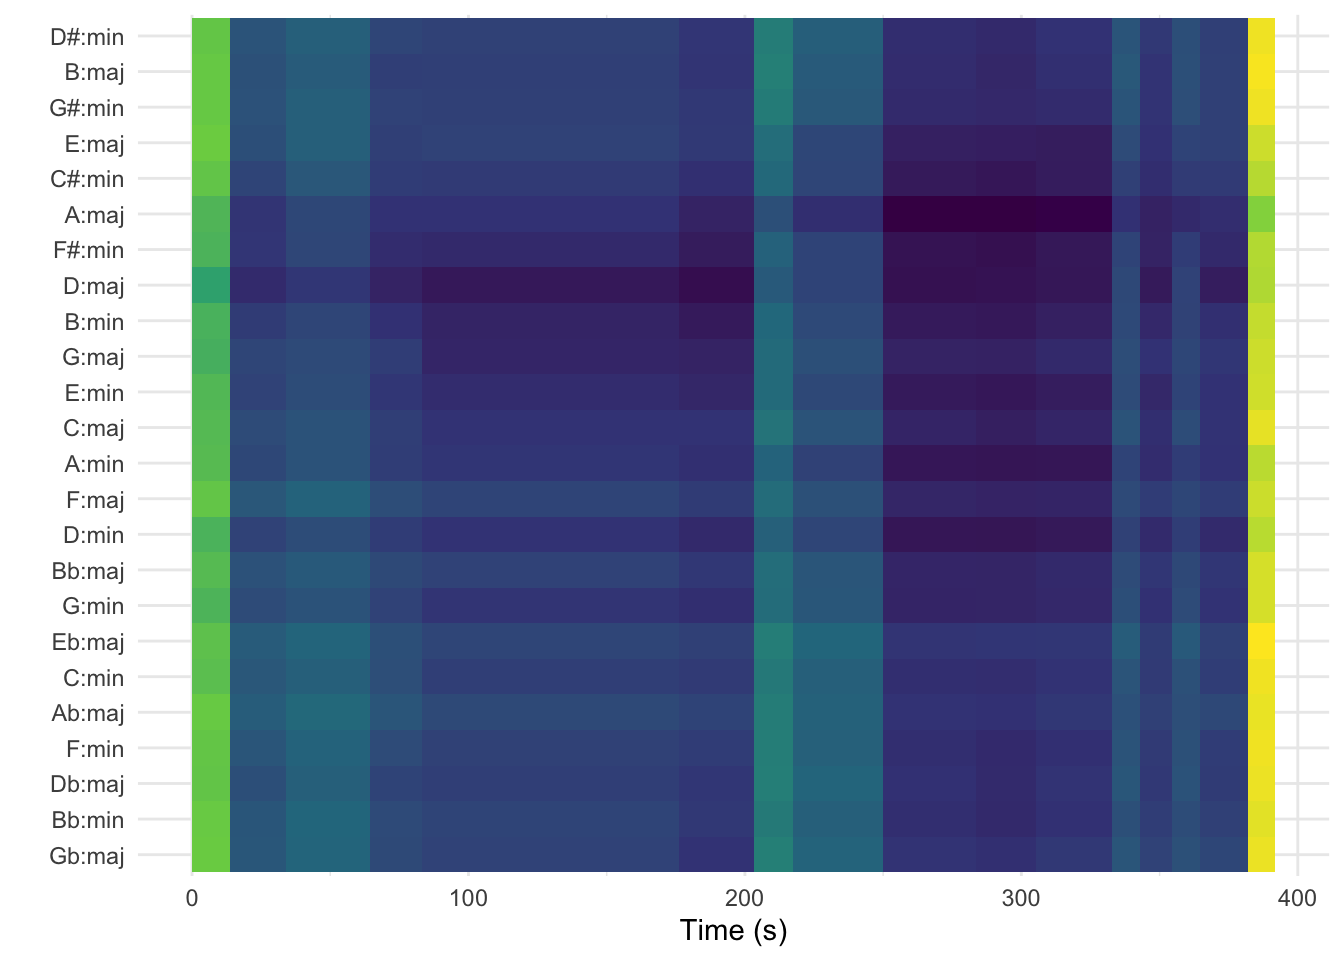
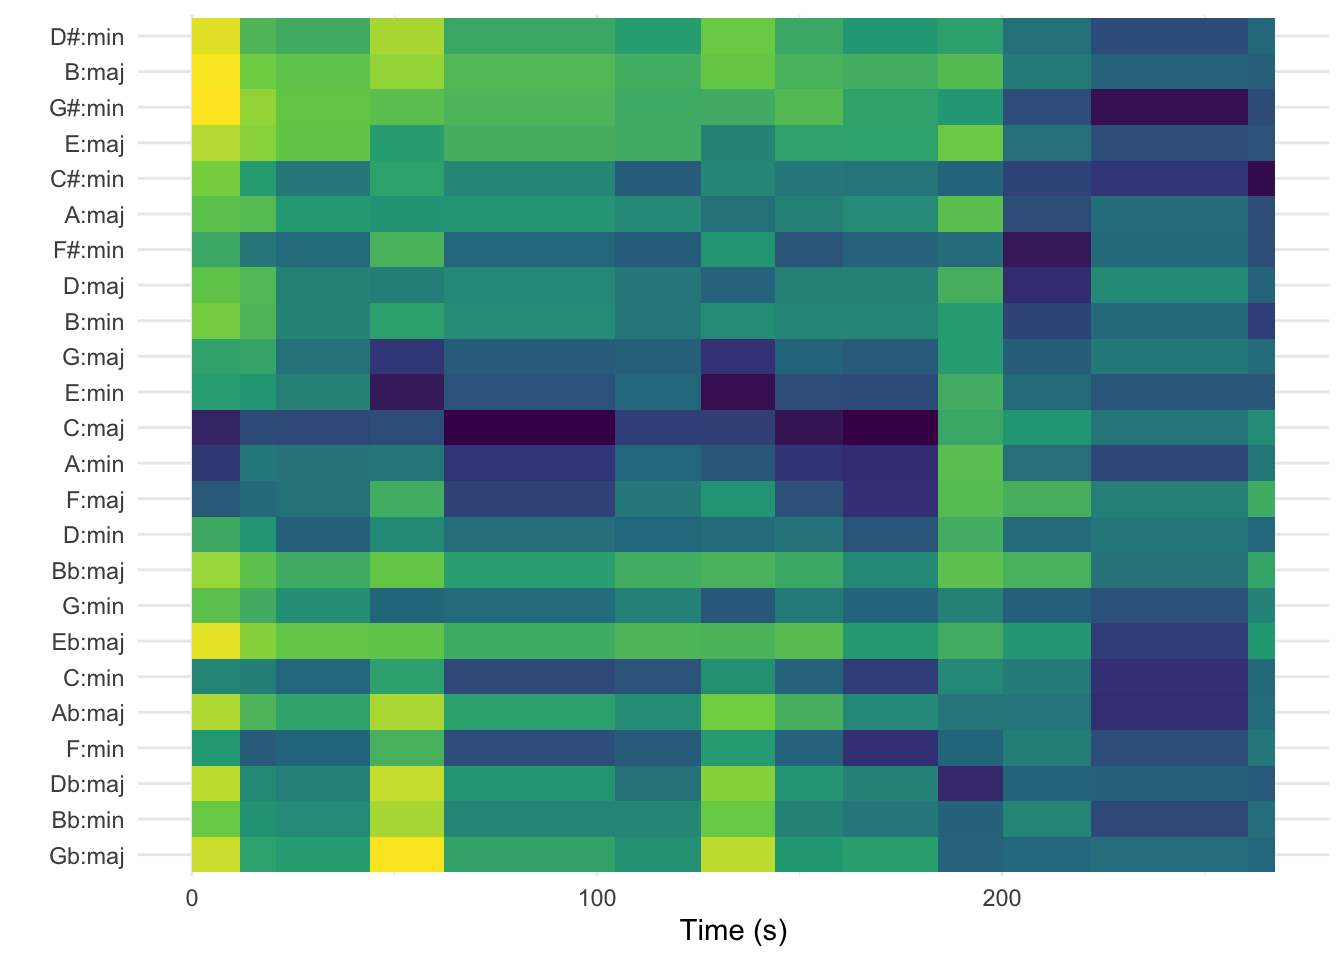
updated weds

diff --git a/docs/class_notes/week_4.html b/docs/class_notes/week_4.html
@@ -239,12 +239,14 @@ code span.wa { color: #60a0b0; font-weight: bold; font-style: italic; } /* Warni
   </ul></li>
   <li><a href="#wednesday" id="toc-wednesday" class="nav-link" data-scroll-target="#wednesday">Wednesday</a>
   <ul class="collapse">
-  <li><a href="#whats-the-key-profile-for-indie-pop" id="toc-whats-the-key-profile-for-indie-pop" class="nav-link" data-scroll-target="#whats-the-key-profile-for-indie-pop">What’s the Key-Profile for “Indie-Pop”</a>
+  <li><a href="#whats-the-key-profile-for-indie-pop" id="toc-whats-the-key-profile-for-indie-pop" class="nav-link" data-scroll-target="#whats-the-key-profile-for-indie-pop">What’s the Key-Profile for “Indie-Pop”</a></li>
+  <li><a href="#whats-the-key-profile-for-edm" id="toc-whats-the-key-profile-for-edm" class="nav-link" data-scroll-target="#whats-the-key-profile-for-edm">What’s the Key Profile for EDM?</a>
   <ul class="collapse">
   <li><a href="#some-points-of-interest" id="toc-some-points-of-interest" class="nav-link" data-scroll-target="#some-points-of-interest">Some points of interest</a></li>
   </ul></li>
   <li><a href="#getting-separate-major-and-minor-key-profiles" id="toc-getting-separate-major-and-minor-key-profiles" class="nav-link" data-scroll-target="#getting-separate-major-and-minor-key-profiles">Getting separate major and minor key-profiles</a></li>
   <li><a href="#one-piece-and-many-key-profiles" id="toc-one-piece-and-many-key-profiles" class="nav-link" data-scroll-target="#one-piece-and-many-key-profiles">One Piece and Many Key Profiles</a></li>
+  <li><a href="#exercise" id="toc-exercise" class="nav-link" data-scroll-target="#exercise">Exercise:</a></li>
   </ul></li>
   </ul>
 <div class="toc-actions"><div><i class="bi bi-github"></i></div><div class="action-links"><p><a href="https://github.com/shanahdt/corpus-studies/edit/main/class_notes/week_4.qmd" class="toc-action">Edit this page</a></p><p><a href="https://github.com/shanahdt/corpus-studies/issues/new" class="toc-action">Report an issue</a></p></div></div></nav>
@@ -714,6 +716,9 @@ code span.wa { color: #60a0b0; font-weight: bold; font-style: italic; } /* Warni
 </div>
 </div>
 <p>So we can look at other genres pretty easily. Here is me looking at Spotify’s “EDM 2023” playlist:</p>
+</section>
+<section id="whats-the-key-profile-for-edm" class="level2">
+<h2 class="anchored" data-anchor-id="whats-the-key-profile-for-edm">What’s the Key Profile for EDM?</h2>
 <div class="cell">
 <div class="sourceCode cell-code" id="cb18"><pre class="sourceCode r code-with-copy"><code class="sourceCode r"><span id="cb18-1"><a href="#cb18-1" aria-hidden="true" tabindex="-1"></a>edm <span class="ot">&lt;-</span> <span class="fu">get_key_profile_broad</span>(<span class="st">"37i9dQZF1DX1kCIzMYtzum"</span>)</span>
 <span id="cb18-2"><a href="#cb18-2" aria-hidden="true" tabindex="-1"></a>edm</span></code><button title="Copy to Clipboard" class="code-copy-button"><i class="bi"></i></button></pre></div>
@@ -752,7 +757,7 @@ code span.wa { color: #60a0b0; font-weight: bold; font-style: italic; } /* Warni
 </section>
 <section id="getting-separate-major-and-minor-key-profiles" class="level2">
 <h2 class="anchored" data-anchor-id="getting-separate-major-and-minor-key-profiles">Getting separate major and minor key-profiles</h2>
-<p>We could break this into a few parts for our own comfort. Let’s start by just creating a function that grabs the data. As that’s the one that’s a time intensive, and calls to the API, let’s try to run it only once.</p>
+<p>We could break this into a few parts for our own comfort. Let’s start by just creating a function that grabs the data. As that’s the one that’s quite time-intensive, and calls to the API, let’s try to run it only once.</p>
 <div class="cell">
 <div class="sourceCode cell-code" id="cb21"><pre class="sourceCode r code-with-copy"><code class="sourceCode r"><span id="cb21-1"><a href="#cb21-1" aria-hidden="true" tabindex="-1"></a>grab_playlist_info <span class="ot">&lt;-</span> <span class="cf">function</span>(uri){</span>
 <span id="cb21-2"><a href="#cb21-2" aria-hidden="true" tabindex="-1"></a>   <span class="fu">get_playlist_audio_features</span>(<span class="st">""</span>, uri) <span class="sc">|&gt;</span></span>
@@ -786,7 +791,7 @@ code span.wa { color: #60a0b0; font-weight: bold; font-style: italic; } /* Warni
 <span id="cb24-2"><a href="#cb24-2" aria-hidden="true" tabindex="-1"></a>major_key <span class="ot">&lt;-</span> <span class="fu">get_pitch_list</span>(major)</span></code><button title="Copy to Clipboard" class="code-copy-button"><i class="bi"></i></button></pre></div>
 </div>
 <p>and then of course we can use these to inform our own key mapping.</p>
-<p>We can start by putting this all into a super quick and ineffcient function like this (hoping to improve it as we go along):</p>
+<p>We can start by putting this all into a super quick and inefficient function like this (hoping to improve it as we go along):</p>
 <div class="cell">
 <div class="sourceCode cell-code" id="cb25"><pre class="sourceCode r code-with-copy"><code class="sourceCode r"><span id="cb25-1"><a href="#cb25-1" aria-hidden="true" tabindex="-1"></a>key_plotter <span class="ot">&lt;-</span> <span class="cf">function</span>(uri, major, minor){</span>
 <span id="cb25-2"><a href="#cb25-2" aria-hidden="true" tabindex="-1"></a>   major_key <span class="ot">&lt;-</span> major</span>
@@ -879,12 +884,22 @@ code span.wa { color: #60a0b0; font-weight: bold; font-style: italic; } /* Warni
 <div class="cell">
 
 </div>
+<p>And then we put these weightings into the plotter:</p>
 <div class="cell">
-<div class="sourceCode cell-code" id="cb29"><pre class="sourceCode r code-with-copy"><code class="sourceCode r"><span id="cb29-1"><a href="#cb29-1" aria-hidden="true" tabindex="-1"></a><span class="fu">key_plotter</span>(<span class="st">"1yYlpGuBiRRf33e1gY61bN"</span>, indie_major_key, indie_minor_key)</span></code><button title="Copy to Clipboard" class="code-copy-button"><i class="bi"></i></button></pre></div>
+<div class="sourceCode cell-code" id="cb29"><pre class="sourceCode r code-with-copy"><code class="sourceCode r"><span id="cb29-1"><a href="#cb29-1" aria-hidden="true" tabindex="-1"></a><span class="fu">key_plotter</span>(<span class="st">"1z6WtY7X4HQJvzxC4UgkSf"</span>, ks_major_key, ks_minor_key)</span></code><button title="Copy to Clipboard" class="code-copy-button"><i class="bi"></i></button></pre></div>
 <div class="cell-output-display">
 <p><img src="week_4_files/figure-html/unnamed-chunk-28-1.png" class="img-fluid" width="672"></p>
 </div>
 </div>
+</section>
+<section id="exercise" class="level2">
+<h2 class="anchored" data-anchor-id="exercise">Exercise:</h2>
+<ol type="1">
+<li>Pick one piece and construct a genre-specific key-profile that might be used to explain it’s tonal make-up.
+<ol type="1">
+<li>Explain this musically.</li>
+</ol></li>
+</ol>
 
 
 </section>
